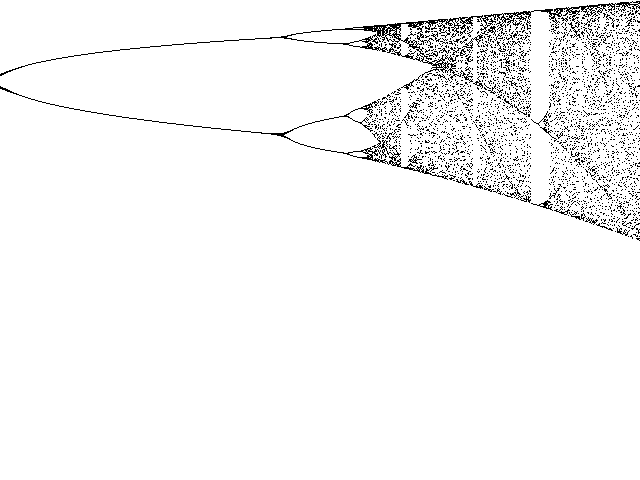
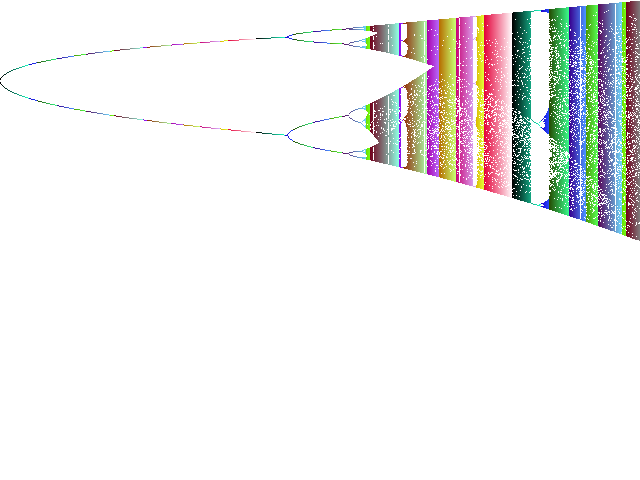
Tests/Colours

diff --git a/Fractals/GoldenDragon.php b/Fractals/GoldenDragon.php
@@ -5,14 +5,13 @@ namespace Fractals;
 class GoldenDragon extends Fractal {
     function __construct($width, $height, $max_iterations, $xmin, $xmax, $ymin, $ymax) {
         parent::__construct($width, $height, $max_iterations, $xmin, $xmax, $ymin, $ymax);
-
-        $this->image = imagecreatetruecolor($this->width, $this->height);
-        imagefill($this->image, 0, 0, imagecolorallocate($this->image, 255, 255, 255));
         $this->generateFractal();
     }
 
     private function generateFractal(): void {
 
+        $this->image = imagecreatetruecolor($this->width, $this->height);
+        imagefill($this->image, 0, 0, imagecolorallocate($this->image, 255, 255, 255));
         $line = imagecolorallocate($this->image, 0, 0, 0);
 
         /**
@@ -55,7 +54,6 @@ class GoldenDragon extends Fractal {
                 }
             }
             $sequence = $newSequence;
-            #$this->displayProgressBar($i, $this->max_iterations);
         }
 
         // Draw the L-system sequence
@@ -63,14 +61,14 @@ class GoldenDragon extends Fractal {
         $y = $this->height / 2;
         $direction = 0;
         $stack = [];
-        $total = count($sequence);
         $i = 0;
         foreach ($sequence as $char) {
             switch ($char) {
                 case 'F':
                     $x2 = $x + cos($direction) * 2;
                     $y2 = $y + sin($direction) * 2;
-                    imageline($this->image, round($x), round($y), round($x2), round($y2), $line);
+                    $color = imagecolorallocate($this->image, $i % 256, ($i * 9) % 256, ($i * 7) % 256);
+                    imageline($this->image, round($x), round($y), round($x2), round($y2), $color);
                     $x = $x2;
                     $y = $y2;
                     break;
@@ -87,7 +85,6 @@ class GoldenDragon extends Fractal {
                     [$x, $y, $direction] = array_pop($stack);
                     break;
             }
-            #$this->displayProgressBar($i, $total);
             $i++;
         }
     }
@@ -101,8 +98,4 @@ class GoldenDragon extends Fractal {
         imagedestroy($this->image);
     }
 
-    protected function calculatePixel($x, $y)
-    {
-        // Uses imageline so we can't use getpixel
-    }
 }

diff --git a/test.php b/test.php
@@ -8,31 +8,31 @@ use Fractals\Mandelbrot;
 use Fractals\Tree;
 
 $start_time = microtime(true);
+$examples = __DIR__ . DIRECTORY_SEPARATOR . 'examples' . DIRECTORY_SEPARATOR;
 
 $loader = require __DIR__ . DIRECTORY_SEPARATOR . 'vendor' . DIRECTORY_SEPARATOR . 'autoload.php';
 $height = 640;
 $width = 480;
 
-
 $fractal = new Mandelbrot($height, $width, 100, -2, 1, -1, 1);
-$fractal->createImage("mandelbrot.png");
+$fractal->createImage($examples . 'mandelbrot.png');
 
 $fractal = new Julia($height, $width, 300, -1.5, 1.5, -1.5, 1.5, -0.70176, -0.3842, 1, 0.1, 0.1);
-$fractal->createImage("julia.png");
+$fractal->createImage($examples . 'julia.png');
 
 $fractal = new BurningShip($height, $width, 100, -2, 1, -2, 2);
-$fractal->createImage("burning_ship.png");
+$fractal->createImage($examples . 'burning_ship.png');
 
 $fractal = new Tree($height, $width, 11, -2, 2, -2, 2, M_PI / 4, 0.5, 1);
-$fractal->createImage("tree.png");
+$fractal->createImage($examples . 'tree.png');
 
-$fractal = new Feigenbaum($height, $width, 100, 3, 4, -1, 1, 3.7);
-$fractal->createImage("feigenbaum.png");
+$fractal = new Feigenbaum($height, $width, 1000, 3, 4, -1, 1);
+$fractal->createImage($examples . 'feigenbaum.png');
 
 $fractal = new GoldenDragon($height, $width, 15, -2, 2, -2, 2);
-$fractal->createImage("golden_dragon.png");
+$fractal->createImage($examples . 'golden_dragon.png');
 
 // Calculating the script execution time
 $end_time = microtime(true);
 $execution_time = $end_time - $start_time;
-echo " Execution time of script = " . $execution_time . " sec";
+echo ' Execution time of script = ' . $execution_time . ' sec';

diff --git a/Fractals/Tree.php b/Fractals/Tree.php
@@ -10,16 +10,14 @@ class Tree extends Fractal {
     function __construct($width, $height, $max_iterations, $xmin, $xmax, $ymin, $ymax, $angle, $lengthFactor = 0.7, $angleFactor = 0.6) {
         parent::__construct($width, $height, $max_iterations, $xmin, $xmax, $ymin, $ymax);
 
-        // Only for tree
         $this->angle = $angle;
         $this->lengthFactor = $lengthFactor;
         $this->angleFactor = $angleFactor;
 
         // Init
         $this->image = imagecreatetruecolor($this->width, $this->height);
-        $lineColor = imagecolorallocate($this->image, 0, 0, 0);
         imagefill($this->image, 0, 0, imagecolorallocate($this->image, 255, 255, 255));
-        $this->drawBranch($this->image, $lineColor, $this->width / 2, $this->height - 100, -$this->angle, $this->height / 4, $this->max_iterations);
+        $this->drawBranch($this->image, imagecolorallocate($this->image, 0, 0, 0), $this->width / 2, $this->height - 100, -$this->angle, $this->height / 4, $this->max_iterations);
     }
 
     private function drawBranch($image, $color, float $x1, float $y1, float $angle, float $length, int $iterations): void {
@@ -43,10 +41,5 @@ class Tree extends Fractal {
     function createImage($filename) {
         imagepng($this->image, $filename);
         imagedestroy($this->image);
-    }
-
-    protected function calculatePixel($x, $y)
-    {
-        // Uses imageline so we can't use getpixel
     }
 }

diff --git a/Fractals/Fractal.php b/Fractals/Fractal.php
@@ -1,6 +1,6 @@
 <?php
 namespace Fractals;
-abstract class Fractal {
+class Fractal {
     protected $width;
     protected $height;
     protected $max_iterations;
@@ -20,15 +20,18 @@ abstract class Fractal {
         $this->ymax = $ymax;
     }
 
-    abstract protected function calculatePixel($x, $y);
-
     function createImage($filename) {
         $this->image = imagecreatetruecolor($this->width, $this->height);
         imagefill($this->image, 0, 0, imagecolorallocate($this->image, 255, 255, 255));
         for ($x = 0; $x < $this->width; $x++) {
             for ($y = 0; $y < $this->height; $y++) {
                 $color = $this->calculatePixel($x, $y);
-                imagesetpixel($this->image, $x, $y, imagecolorallocate($this->image, $color, $color, $color));
+                if(is_array($color)){
+                    [$r, $g, $b] = $color;
+                    imagesetpixel($this->image, $x, $y, imagecolorallocate($this->image, $r, $g, $b)); // random alpha?
+                } else {
+                    imagesetpixel($this->image, $x, $y, imagecolorallocate($this->image, $color, $color, $color));
+                }
             }
         }
 

diff --git a/Fractals/Feigenbaum.php b/Fractals/Feigenbaum.php
@@ -2,11 +2,9 @@
 
 namespace Fractals;
 class Feigenbaum extends Fractal {
-    private $r;
 
     function __construct($width, $height, $max_iterations, $xmin = 2.4, $xmax = 4.0, $ymin = 0, $ymax = 1) {
         parent::__construct($width, $height, $max_iterations, $xmin, $xmax, $ymin, $ymax);
-
         $this->generate();
     }
 
@@ -27,14 +25,12 @@ class Feigenbaum extends Fractal {
                     $y = (int)(($x - $this->ymin) / ($this->ymax - $this->ymin) * $this->height);
 
                     if ($y >= 0 && $y < $this->height) {
-                        imagesetpixel($this->image, $i, $this->height - $y, $black);
+                        $color = imagecolorallocate($this->image, $i % 256, ($i * 9) % 256, ($i * 7) % 256);
+                        imagesetpixel($this->image, $i, $this->height - $y, $color);
                     }
                 }
             }
         }
-    }
-
-    protected function calculatePixel($x, $y) {
     }
 
     public function createImage($filename)

diff --git a/Fractals/Julia.php b/Fractals/Julia.php
@@ -33,9 +33,8 @@ class Julia extends Fractal {
         $this->zoom = $zoom;
         $this->moveX = $moveX;
         $this->moveY = $moveY;
-        $this->generateImage();
         $this->width = $width;
-
+        $this->generateImage();
     }
 
     public function generateImage() {
@@ -60,9 +59,7 @@ class Julia extends Fractal {
         }
 
     }
-    
-    protected function calculatePixel($x, $y) {}
-    
+
     public function createImage($filename)
     {
         imagepng($this->image, $filename);

diff --git a/Fractals/Mandelbrot.php b/Fractals/Mandelbrot.php
@@ -3,6 +3,7 @@
 namespace Fractals;
 
 class Mandelbrot extends Fractal {
+
     protected function calculatePixel($x, $y) {
         $real = $this->xmin + ($x / $this->width) * ($this->xmax - $this->xmin);
         $imag = $this->ymin + ($y / $this->height) * ($this->ymax - $this->ymin);

diff --git a/Fractals/BurningShip.php b/Fractals/BurningShip.php
@@ -24,6 +24,6 @@ class BurningShip extends Fractal {
             $i++;
         }
 
-        return $i == $this->max_iterations ? 0 : 255 - (int)(log($i) * 10);
+        return [$i % 256, ($i * 9) % 256, ($i * 7) % 256];
     }
 }
